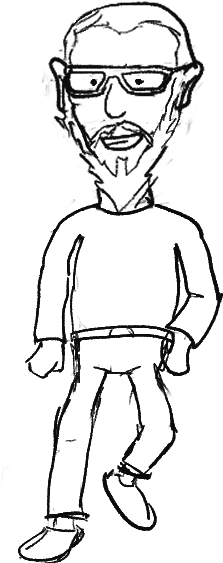
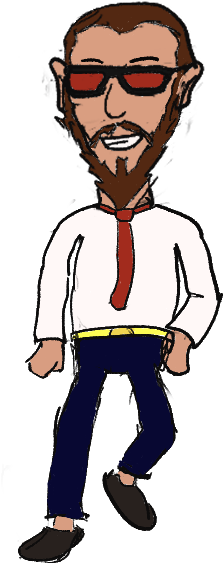
añadida mesa y colores personaje

Changed region(s): [[0.0807, 0.0, 0.9148, 0.9964], [0.1345, 0.6039, 0.296, 0.6643]]

diff --git a/js/object.js b/js/object.js
@@ -1,9 +1,12 @@
 "use strict";
 
+var imgMesa = new Image();
+imgMesa.src = './images/mesa.png';
+
 class Object {
-    constructor(canvas, x,y,sizeX, sizeY,text) {
+    constructor(canvas, x,y,sizeX,text,index) {
       this.sizeX = sizeX;
-      this.sizeY = sizeY;
+      this.sizeY = sizeX;
       this.canvas = canvas;
       this.ctx = this.canvas.getContext("2d");
       this.x = x; 
@@ -11,15 +14,18 @@ class Object {
       this.text = text;
       this.textContainer = document.querySelector("#dialogs p");
       this.indexTest = 0;
-     
+      this.images = [imgMesa];
+      this.index = index;
     }
   
 
   
     draw() {
         //console.log("pintando ordenador", this.x,this.y);
-      this.ctx.fillStyle = "red";
-      this.ctx.fillRect(this.x- this.sizeX/2, this.y - this.sizeY/2, this.sizeX, this.sizeY);
+      // this.ctx.fillStyle = "red";
+      // this.ctx.fillRect(this.x- this.sizeX/2, this.y - this.sizeY/2, this.sizeX, this.sizeY);
+      //console.log(this.index, this.images[0], this.images[this.index]);
+      this.ctx.drawImage(this.images[this.index],this.x - this.sizeX / 2, this.y - this.sizeY / 2, this.sizeX, this.sizeY);
     }
 
 
@@ -38,8 +44,9 @@ class Object {
 
 
   class Ordenador extends Object {
-    constructor(canvas, x,y,sizeX, sizeY,text) {
-    super(canvas, x,y,sizeX, sizeY,text);    
+    constructor(canvas, x,y,sizeX,text,index) {
+    super(canvas, x,y,sizeX,text,index); 
+    this.sizeY = this.sizeX /2;   
     
     }
 
@@ -67,8 +74,8 @@ class Object {
 
 
   class MagicHut extends Object {
-    constructor(canvas, x,y,sizeX, sizeY,text) {
-    super(canvas, x,y,sizeX, sizeY,text);    
+    constructor(canvas, x,y,sizeX,text,index) {
+    super(canvas, x,y,sizeX,text,index);    
     
     }
 

diff --git a/js/game1.js b/js/game1.js
@@ -114,13 +114,13 @@ class Game1 {
 
 
 
-    const ordenador = new Ordenador(this.canvas,this.canvas.width/2,this.canvas.height/2, 50,50,textObjetoPrueba);
+    const ordenador = new Ordenador(this.canvas,this.canvas.width/2,this.canvas.height/2, this.canvas.width/3,textObjetoPrueba,0);
     this.objects.push(ordenador);
 
-    const cama = new Object(this.canvas,this.canvas.width/2,this.canvas.height-50, 100,50,textObjetoPrueba2);
-    this.objects.push(cama);
+    // const cama = new Object(this.canvas,this.canvas.width/2,this.canvas.height-50, 100,50,textObjetoPrueba2, 0);
+    // this.objects.push(cama);
 
-    const magicHut = new MagicHut(this.canvas,this.canvas.width*0.1,this.canvas.height-50, 50,50,textObjetoPrueba3);
+    const magicHut = new MagicHut(this.canvas,this.canvas.width*0.1,this.canvas.height-50,50,textObjetoPrueba3, 0);
     this.objects.push(magicHut);
 
   }
